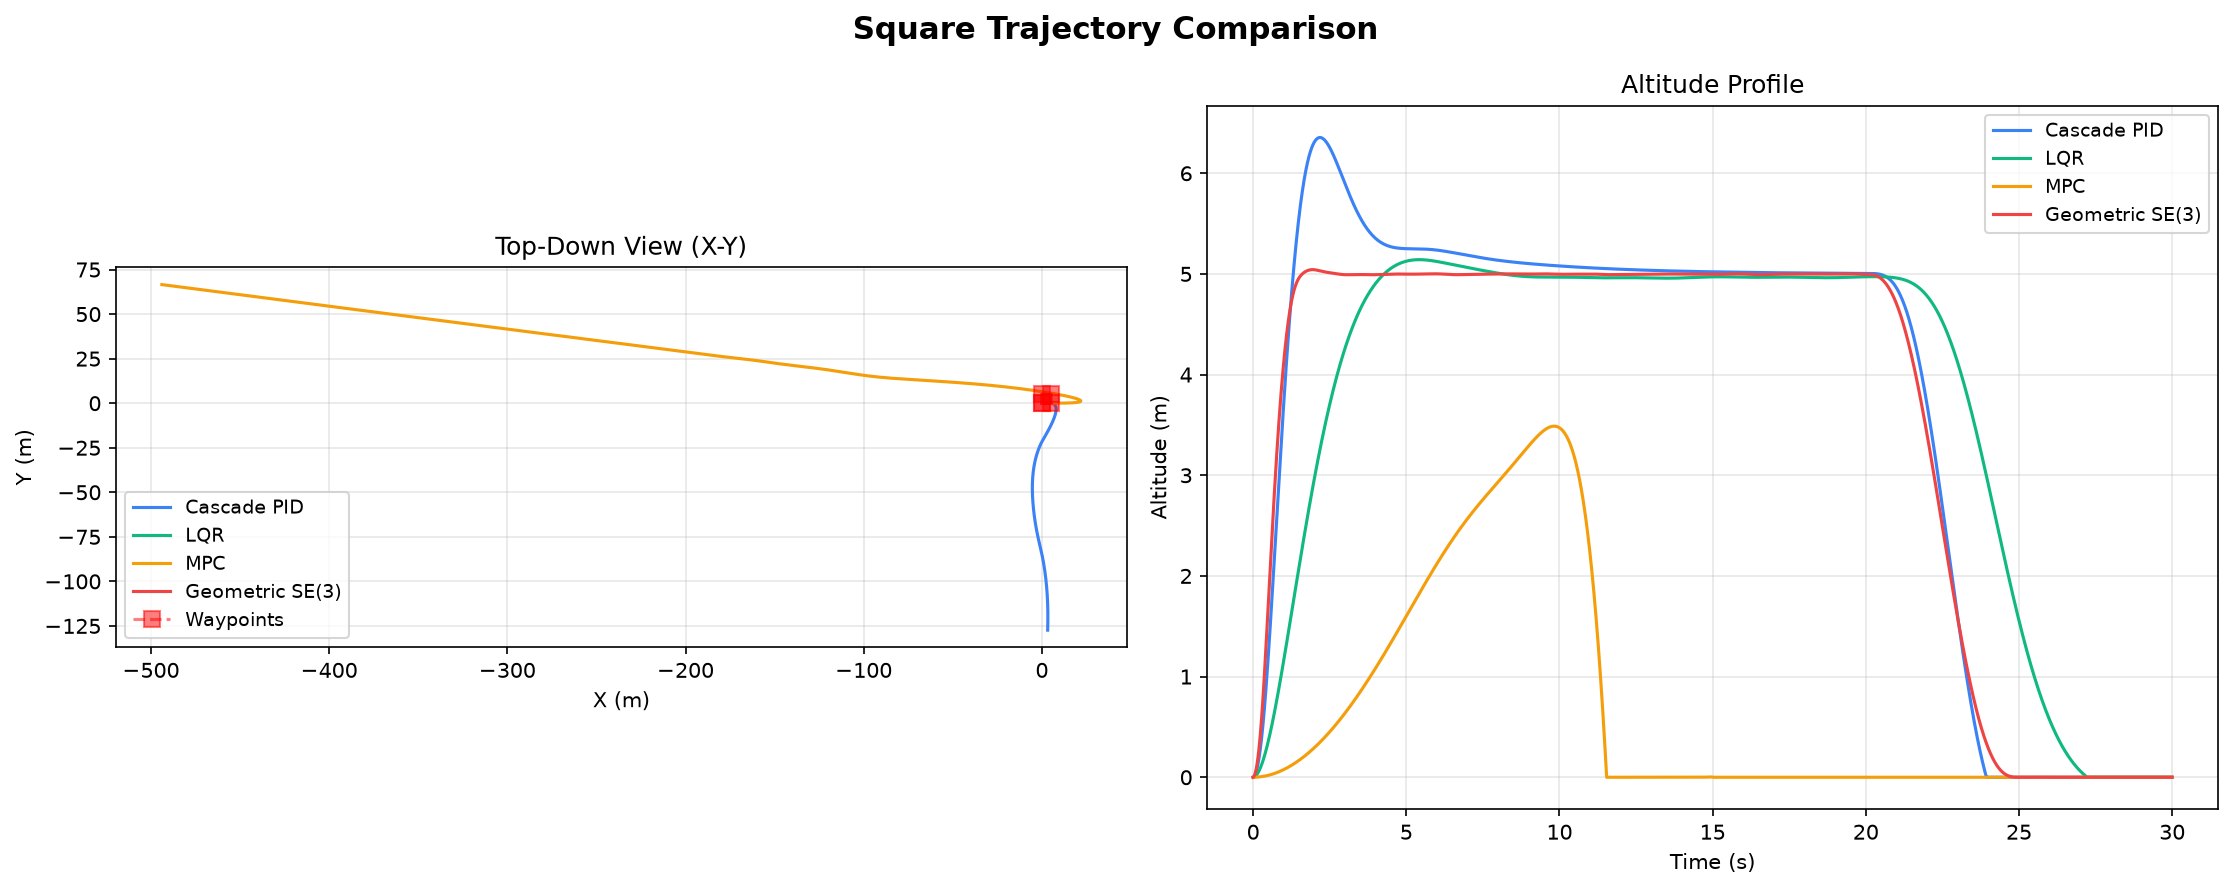
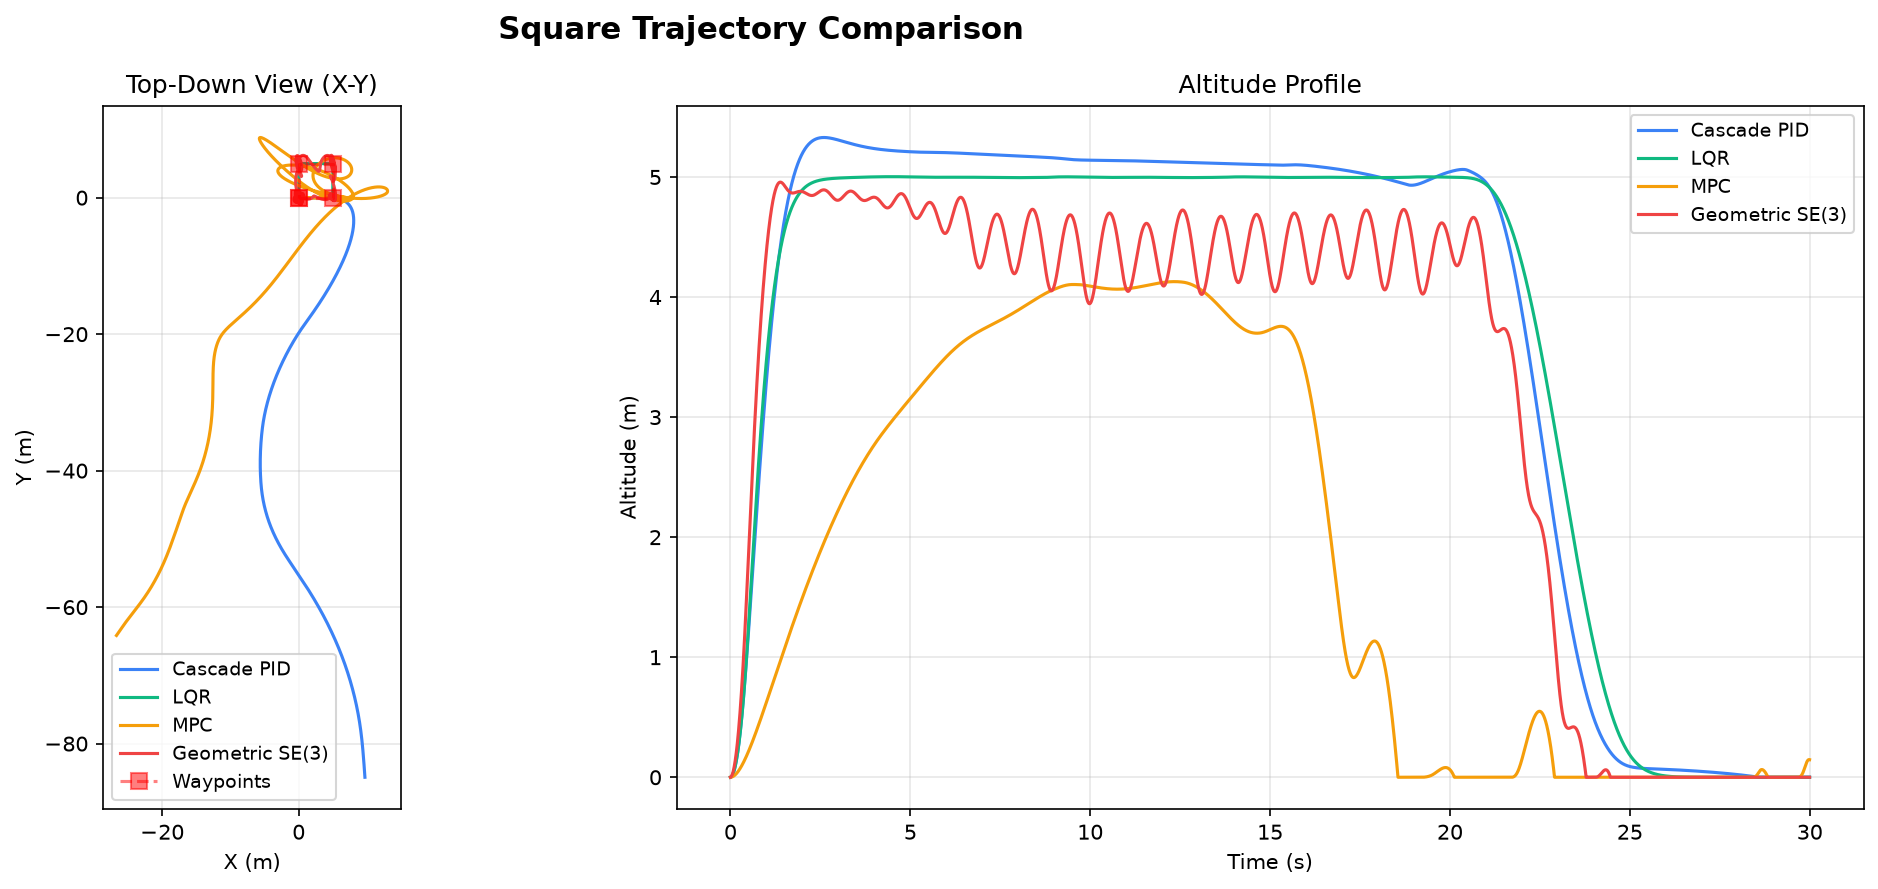
feat(controllers): tune PID, LQR, MPC, Geometric controllers and fix simulation pipelines
- Add drag_coeff and rho aliases to QuadplaneParams
- Tune Cascade PID, LQR, and MPC controller gains for 7.8kg Quadplane Condor
- Support control rate decimation for MPC controller simulation
- Fix module import paths and flake8 compliance across simulation scripts
- Fix telemetry scaling in read_telemetry.py
- Update figure8 world and SDF spawn configs
- Regenerate controller comparison and mission performance plots

diff --git a/src/controllers/cascade_controller.py b/src/controllers/cascade_controller.py
@@ -27,9 +27,9 @@ class CascadeController(ControllerBase):
         # ---- Outer loop: Position PID (x, y, z) ----
         # Output: desired roll, pitch angles + thrust
         self.pid_x = PIDController(
-            kp=1.5,
-            ki=0.08,
-            kd=1.0,
+            kp=2.2,
+            ki=0.04,
+            kd=1.4,
             output_min=-0.45,
             output_max=0.45,
             integral_min=-1.5,
@@ -37,9 +37,9 @@ class CascadeController(ControllerBase):
             derivative_filter_coeff=0.3,
         )
         self.pid_y = PIDController(
-            kp=1.5,
-            ki=0.08,
-            kd=1.0,
+            kp=2.2,
+            ki=0.04,
+            kd=1.4,
             output_min=-0.45,
             output_max=0.45,
             integral_min=-1.5,
@@ -47,30 +47,30 @@ class CascadeController(ControllerBase):
             derivative_filter_coeff=0.3,
         )
         self.pid_z = PIDController(
-            kp=3.5,
-            ki=0.8,
-            kd=2.2,
-            output_min=-40.0,
-            output_max=40.0,
-            integral_min=-15.0,
-            integral_max=15.0,
+            kp=4.2,
+            ki=0.25,
+            kd=3.2,
+            output_min=-45.0,
+            output_max=45.0,
+            integral_min=-10.0,
+            integral_max=10.0,
             derivative_filter_coeff=0.3,
         )
 
         # ---- Middle loop: Attitude PID (roll, pitch, yaw) ----
         # Output: desired body rates [p, q, r]
         self.pid_roll = PIDController(
-            kp=7.5,
+            kp=8.5,
             ki=0.0,
-            kd=0.6,
+            kd=0.7,
             output_min=-3.0,
             output_max=3.0,
             derivative_filter_coeff=0.2,
         )
         self.pid_pitch = PIDController(
-            kp=7.5,
+            kp=8.5,
             ki=0.0,
-            kd=0.6,
+            kd=0.7,
             output_min=-3.0,
             output_max=3.0,
             derivative_filter_coeff=0.2,

diff --git a/src/simulation/condor_closed_loop_sim.py b/src/simulation/condor_closed_loop_sim.py
@@ -275,6 +275,10 @@ def run_simulation(
 
     wall_start = time.perf_counter()
 
+    ctrl_dt = getattr(controller, "control_dt", dt)
+    decimation = max(1, int(round(ctrl_dt / dt)))
+    thrust, torque = 0.0, np.zeros(3)
+
     for i in range(n_steps):
         t = i * dt
 
@@ -288,14 +292,15 @@ def run_simulation(
         else:
             sp = np.zeros(3)
 
-        # Compute control
-        ctrl_sp = sp if isinstance(controller, GeometricController) else sp[0:3]
-        thrust, torque = controller.compute(
-            position_setpoint=ctrl_sp,
-            yaw_setpoint=0.0,
-            current_state=drone.state,
-            dt=dt,
-        )
+        # Compute control at controller loop rate
+        if i % decimation == 0:
+            ctrl_sp = sp if isinstance(controller, GeometricController) else sp[0:3]
+            thrust, torque = controller.compute(
+                position_setpoint=ctrl_sp,
+                yaw_setpoint=0.0,
+                current_state=drone.state,
+                dt=ctrl_dt,
+            )
 
         # Step dynamics
         drone.step(thrust, torque, dt)

diff --git a/src/dashboard/web_dashboard/server.py b/src/dashboard/web_dashboard/server.py
@@ -8,15 +8,20 @@ and automated flight lifecycle states to the Web Dashboard.
 import asyncio
 import json
 import math
+import sys
+from pathlib import Path
 
 import numpy as np
 import websockets
 
-from src.controllers.condor_vtol_controller import VTOLHybridController
-from src.px4_integration.mavsdk_bridge import MAVSDKBridge
-from src.px4_integration.offboard_controller import OffboardController
-from src.scenarios.flight_scenarios import FlightScenarios
-from src.uav_model.condor_dynamics import QuadplaneDynamics, QuadplaneParams
+# Add project root to sys.path
+sys.path.insert(0, str(Path(__file__).resolve().parents[3]))
+
+from src.controllers.condor_vtol_controller import VTOLHybridController  # noqa: E402
+from src.px4_integration.mavsdk_bridge import MAVSDKBridge  # noqa: E402
+from src.px4_integration.offboard_controller import OffboardController  # noqa: E402
+from src.scenarios.flight_scenarios import FlightScenarios  # noqa: E402
+from src.uav_model.condor_dynamics import QuadplaneDynamics, QuadplaneParams  # noqa: E402
 
 # Global handles
 bridge = None

diff --git a/src/px4_integration/sitl_condor_geometric.py b/src/px4_integration/sitl_condor_geometric.py
@@ -1,13 +1,17 @@
 import asyncio
-from pathlib import Path
+import sys
 import time
+from pathlib import Path
 
 import numpy as np
 
-from src.controllers.geometric_controller import GeometricController
-from src.px4_integration.mavsdk_bridge import MAVSDKBridge
-from src.px4_integration.offboard_controller import OffboardController
-from src.simulation.condor_closed_loop_sim import generate_giant_lemniscate_setpoints
+# Add project root to path
+sys.path.insert(0, str(Path(__file__).resolve().parents[2]))
+
+from src.controllers.geometric_controller import GeometricController  # noqa: E402
+from src.px4_integration.mavsdk_bridge import MAVSDKBridge  # noqa: E402
+from src.px4_integration.offboard_controller import OffboardController  # noqa: E402
+from src.simulation.condor_closed_loop_sim import generate_giant_lemniscate_setpoints  # noqa: E402
 
 
 async def run_geometric_lemniscate():

diff --git a/src/controllers/mpc_controller.py b/src/controllers/mpc_controller.py
@@ -38,15 +38,15 @@ class MPCController(ControllerBase):
         Iyy: float = 1.06,
         Izz: float = 2.50,
         drag_coeff: float = 0.05,
-        horizon: int = 15,
-        control_dt: float = 0.02,
-        q_pos_xy: float = 20.0,
-        q_pos_z: float = 50.0,
-        q_vel: float = 10.0,
-        q_angle: float = 200.0,
+        horizon: int = 20,
+        control_dt: float = 0.05,
+        q_pos_xy: float = 50.0,
+        q_pos_z: float = 100.0,
+        q_vel: float = 20.0,
+        q_angle: float = 80.0,
         q_rate: float = 5.0,
-        r_thrust: float = 0.1,
-        r_torque: float = 0.5,
+        r_thrust: float = 0.01,
+        r_torque: float = 0.1,
         thrust_max_factor: float = 2.0,
         torque_max: float = 15.0,
     ):

diff --git a/src/simulation/condor_mission_sim.py b/src/simulation/condor_mission_sim.py
@@ -15,12 +15,16 @@ Generates comprehensive flight performance plots and energy comparisons:
   - Power & Energy Consumption vs Pure Multicopter
 """
 
+import sys
 from pathlib import Path
 import matplotlib.pyplot as plt
 import numpy as np
 
-from src.controllers.condor_vtol_controller import VTOLHybridController
-from src.uav_model.condor_dynamics import QuadplaneDynamics, QuadplaneParams
+# Add project root to path
+sys.path.insert(0, str(Path(__file__).resolve().parents[2]))
+
+from src.controllers.condor_vtol_controller import VTOLHybridController  # noqa: E402
+from src.uav_model.condor_dynamics import QuadplaneDynamics, QuadplaneParams  # noqa: E402
 
 
 def run_vtol_mission_simulation():

diff --git a/src/controllers/lqr_controller.py b/src/controllers/lqr_controller.py
@@ -38,13 +38,13 @@ class LQRController(ControllerBase):
         Iyy: float = 1.06,
         Izz: float = 2.50,
         drag_coeff: float = 0.05,
-        q_pos_xy: float = 8.0,
-        q_pos_z: float = 15.0,
-        q_vel: float = 3.0,
-        q_angle: float = 10.0,
-        q_rate: float = 1.0,
-        r_thrust: float = 0.5,
-        r_torque: float = 2.0,
+        q_pos_xy: float = 40.0,
+        q_pos_z: float = 80.0,
+        q_vel: float = 15.0,
+        q_angle: float = 60.0,
+        q_rate: float = 5.0,
+        r_thrust: float = 0.02,
+        r_torque: float = 0.3,
     ):
         """
         Args:

diff --git a/src/uav_model/condor_dynamics.py b/src/uav_model/condor_dynamics.py
@@ -102,6 +102,16 @@ class QuadplaneParams:
         """Total vertical thrust required to hover (N)."""
         return self.mass * self.gravity
 
+    @property
+    def drag_coeff(self) -> float:
+        """Parasitic zero-lift drag coefficient (alias for CD0)."""
+        return self.CD0
+
+    @property
+    def rho(self) -> float:
+        """Air density (alias for air_density)."""
+        return self.air_density
+
 
 # Alias QuadrotorParams to QuadplaneParams for backwards compatibility in existing tests
 QuadrotorParams = QuadplaneParams

diff --git a/scripts/read_telemetry.py b/scripts/read_telemetry.py
@@ -40,7 +40,9 @@ async def run():
 
     async for battery in drone.telemetry.battery():
         print(f"Battery Voltage: {battery.voltage_v:.2f} V")
-        print(f"Battery Remaining: {battery.remaining_percent * 100:.1f}%")
+        pct = battery.remaining_percent
+        rem = pct * 100 if pct <= 1.0 else pct
+        print(f"Battery Remaining: {rem:.1f}%")
         break
 
     async for mode in drone.telemetry.flight_mode():

diff --git a/scripts/plot_telemetry.py b/scripts/plot_telemetry.py
@@ -15,6 +15,13 @@ log_path = os.path.join(project_dir, "logs", "flight_telemetry.csv")
 if not os.path.exists(log_path):
     log_path = os.path.join(project_dir, "flight_telemetry.csv")
 
+if not os.path.exists(log_path):
+    print(
+        f"⚠ No telemetry log found at {log_path}. "
+        "Run a flight mission first (e.g. ./manage.sh geometric)."
+    )
+    exit(0)
+
 df = pd.read_csv(log_path)
 
 # Calculate errors

diff --git a/scripts/generate_figure8_world.py b/scripts/generate_figure8_world.py
@@ -314,12 +314,6 @@ def generate_figure8_world():
       </link>
     </model>
 
-    <!-- Embedded Quadplane Condor at Origin (Pointing True North) -->
-    <include>
-      <uri>model://quadplane_condor</uri>
-      <name>quadplane_condor_0</name>
-      <pose>0 0 0.35 0 0 0</pose>
-    </include>
 
     <!-- Geographic Origin (Hanoi Coordinates) -->
     <spherical_coordinates>
